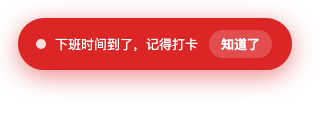
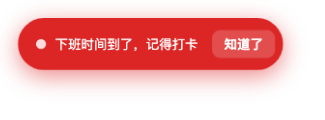
fix: make the clock-in button read as a button
A colleague read 「已打卡」 as a status readout and never pressed it. Two
things caused that, and both are fixed:

  - The label was past tense. 「已打卡」 states a completed fact; 「打卡」 is
    the action. The top line now reads 「09:00 上班」 so 打卡 is not said
    twice, and it mirrors the 「18:00 下班」 line shown right after.

  - The shape was a capsule. 999px is this product's status-tag shape
    (.pill), not its button shape; real buttons use --dsw-radius-sm (8px).
    A round chip inside a round pill reads as decoration.

Also drops the unused act.clockedIn string and refreshes the screenshots.

diff --git a/client.js b/client.js
@@ -11,7 +11,7 @@
  * The phases a shift walks through:
  *
  *   waiting  — the shift has started but today's clock-in has not been marked.
- *              The pill shows the start time and a 「已打卡」 button, which is
+ *              The pill shows the start time and a 「打卡」 button, which is
  *              itself the reminder to clock in.
  *   working  — clocked in, before the heads-up window; quiet, theme-token colours
  *   soon     — inside the heads-up window (default 15 min); warn accent
@@ -20,6 +20,20 @@
  *              to clock in must not cost the user the reminder that matters most.
  *   hidden   — off, a rest day, dismissed for this shift, or outside the reminder
  *              window after a shift ended.
+ *
+ * ## Why the action button does not say 「已打卡」
+ *
+ * It said that once, and a colleague read it as a status readout rather than a
+ * control — the pill sat there announcing a state that had not happened yet. Two
+ * things made it read that way, and both are fixed:
+ *
+ *   - The label was past tense. 「已打卡」 states a completed fact; 「打卡」 is the
+ *     action, and the word DingTalk and every other Chinese time clock puts on
+ *     the button you press.
+ *   - The shape was a capsule (`border-radius:999px`) — which is this product's
+ *     *status tag* shape (`.pill` in the app shell), not its button shape. Real
+ *     buttons here use `--dsw-radius-sm` (8px). A round chip inside a round pill
+ *     reads as decoration; a rounded rectangle reads as something to press.
  *
  * ## The shift model (this is what makes night shifts work)
  *
@@ -64,7 +78,7 @@ window.__ModuleLoader__.load({
     /** Copy for both locales. The Host never reads these; they are the page's. */
     const DICT = {
       zh: {
-        'pill.waiting': '上班打卡 · {start}',
+        'pill.waiting': '{start} 上班',
         'pill.endAt': '{time} 下班',
         'pill.soon': '快下班了 · {time}',
         'pill.remaining': '还有 {delta}',
@@ -72,8 +86,7 @@ window.__ModuleLoader__.load({
         'delta.ms': '{m} 分 {s} 秒',
         'delta.s': '{s} 秒',
         'pill.due': '下班时间到了，记得打卡',
-        'act.clockIn': '已打卡',
-        'act.clockedIn': '已打卡 ✓',
+        'act.clockIn': '打卡',
         'act.known': '知道了',
         'panel.title': '打卡提醒',
         'panel.subtitle': '到点后浮窗会变色并轻轻呼吸，提醒你打卡。',
@@ -108,7 +121,7 @@ window.__ModuleLoader__.load({
         'panel.hint': '设置保存在本机，重启后仍然有效。',
         'panel.daysRequired': '至少保留一天。',
         'panel.shiftInvalid': '上班和下班时间不能相同。',
-        'panel.clockInHint': '每天点一次「已打卡」，浮窗才开始显示下班倒计时。',
+        'panel.clockInHint': '每天点一次「打卡」，浮窗才开始显示下班倒计时。',
         'day.1': '一',
         'day.2': '二',
         'day.3': '三',
@@ -132,7 +145,7 @@ window.__ModuleLoader__.load({
         'color.slate': '深灰',
       },
       en: {
-        'pill.waiting': 'Clock in · {start}',
+        'pill.waiting': 'Starts at {start}',
         'pill.endAt': 'Off at {time}',
         'pill.soon': 'Off soon · {time}',
         'pill.remaining': '{delta} left',
@@ -141,7 +154,6 @@ window.__ModuleLoader__.load({
         'delta.s': '{s}s',
         'pill.due': 'Time to clock out',
         'act.clockIn': 'Clock in',
-        'act.clockedIn': 'Clocked in ✓',
         'act.known': 'Got it',
         'panel.title': 'Clock reminder',
         'panel.subtitle': 'When the time comes the pill fills with colour and breathes, so you do not forget to clock out.',
@@ -506,7 +518,10 @@ window.__ModuleLoader__.load({
      *
      * `waiting` carries no countdown on purpose: the shift end is not what is
      * being counted down before the clock-in happens, and a number there read as
-     * if the day had already started.
+     * if the day had already started. Its top line puts the time first
+     * (`09:00 上班`) to match the `working` line (`18:00 下班`) directly below it
+     * in the same day — and because 「上班打卡 · 09:00」 next to a 「打卡」 button
+     * said 打卡 twice in 40px.
      * @param {string} phase - the phase name.
      * @param {object} schedule - the settings document.
      * @param {number} remaining - milliseconds until the shift ends.
@@ -1729,7 +1744,7 @@ window.__ModuleLoader__.load({
 .dsh-offwork-copy:focus-visible{outline:2px solid var(--dsw-alias-brand-primary);outline-offset:3px;border-radius:6px}
 .dsh-offwork-line{white-space:nowrap;overflow:hidden;text-overflow:ellipsis;font-size:13px;line-height:17px}
 .dsh-offwork-clock{font-variant-numeric:tabular-nums;font-size:12px;line-height:15px;color:var(--dsw-alias-label-secondary);white-space:nowrap}
-.dsh-offwork-action{flex:none;height:28px;margin:0 6px 0 2px;padding:0 12px;border:0;border-radius:999px;background:var(--dsw-alias-bg-layer-2);font:inherit;font-size:13px;color:var(--dsw-alias-label-primary);cursor:pointer;white-space:nowrap;transition:background 160ms ease}
+.dsh-offwork-action{flex:none;height:28px;margin:0 6px 0 2px;padding:0 12px;border:0;border-radius:var(--dsw-radius-sm, 8px);background:var(--dsw-alias-bg-layer-2);font:inherit;font-size:13px;color:var(--dsw-alias-label-primary);cursor:pointer;white-space:nowrap;transition:background 160ms ease}
 .dsh-offwork-action:hover{background:var(--dsw-alias-border-l2)}
 .dsh-offwork-action:focus-visible{outline:2px solid var(--dsw-alias-brand-primary);outline-offset:2px}
 .dsh-offwork-gear{flex:none;width:32px;height:32px;margin-right:8px;padding:0;border:0;border-radius:50%;background:none;font-size:15px;line-height:1;color:var(--dsw-alias-label-secondary);cursor:pointer}

diff --git a/README.md b/README.md
@@ -16,7 +16,8 @@
 
 ## 功能
 
-- **上班打卡** —— 到设定的上班时间，挂件显示「已打卡」按钮，这本身就是提醒你要打卡。点一次记一整天，刷新、重开都记得。
+- **上班打卡** —— 到设定的上班时间，挂件显示「打卡」按钮，这本身就是提醒你要打卡。点一次记一整天，刷新、重开都记得。
+  - 按钮写的是**动作**（打卡），不是状态（已打卡）—— 它要你点，不是在汇报。
 - **下班倒计时** —— 打卡后开始倒计时，安静地待在角落。
 - **快下班了** —— 进入提前提醒窗口（默认 15 分钟），边框和倒计时换成警告色。
 - **下班提醒** —— 到点后整张卡片填满提醒色、呼吸、抖动，并给出「知道了」按钮。点一下当天收起。
@@ -41,7 +42,7 @@ dsh plugin --profile web add dsh-offwork-countdown
 
 ## 使用
 
-1. 到上班时间，角落出现「已打卡」按钮，点一下开始倒计时。
+1. 到上班时间，角落出现「打卡」按钮，点一下开始倒计时。
 2. 拖动胶囊到顺手的位置，位置会记住。
 3. 点齿轮调整：上班/下班时间、提前提醒分钟数、呼吸节奏（1.2/1.8/3 秒）、提醒有效期、提醒日、颜色、位置、是否显示。
 

diff --git a/README.en.md b/README.en.md
@@ -17,6 +17,7 @@ A small pill in the corner of the interface that walks a workday with you: it pr
 ## Features
 
 - **Clock in** — at your shift's start time the pill shows a "Clock in" button, which is itself the reminder to do it. One click covers the whole day; a refresh or restart remembers it.
+  - The button names the **action** (Clock in), not the state (Clocked in) — it is asking you to press it, not reporting.
 - **Countdown** — after clocking in it counts down quietly in the corner.
 - **Heads-up** — inside the lead window (15 minutes by default) the border and the countdown switch to a warning colour.
 - **Clock-out reminder** — the whole card fills with your accent colour, breathes and shakes, and a "Got it" button dismisses it for the day.
